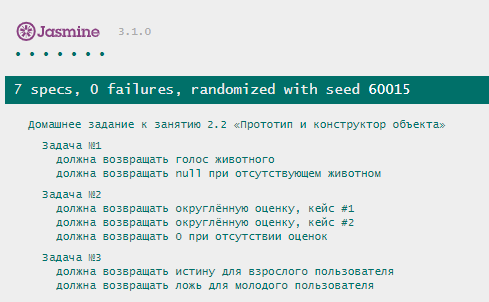
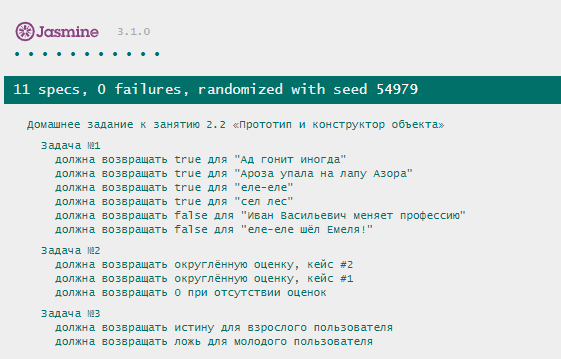
Change opject-prototype task

Changed region(s): [[0.0613, 0.3874, 0.9202, 0.9834], [0.0, 0.2086, 1.0, 0.3576], [0.0307, 0.0596, 0.3067, 0.1788]]

diff --git a/2.2-object-prototype/tests.js b/2.2-object-prototype/tests.js
@@ -1,11 +1,27 @@
 describe('Домашнее задание к занятию 2.2 «Прототип и конструктор объекта»', () => {
   describe('Задача №1', () => {
-    it('должна возвращать null при отсутствующем животном', () => {
-      expect(getAnimalSound()).toBeNull();
+    it('должна возвращать true для "Ароза упала на лапу Азора"', () => {
+      expect("А роза упала на лапу Азора".isPalindrome()).toBeTruthy();
     });
 
-    it('должна возвращать голос животного', () => {
-      expect(getAnimalSound({sound: 'grrrr'})).toEqual('grrrr');
+    it('должна возвращать true для "Ад гонит иногда"', () => {
+      expect("Ад гонит иногда".isPalindrome()).toBeTruthy();
+    });
+
+    it('должна возвращать true для "сел лес"', () => {
+      expect("сел лес".isPalindrome()).toBeTruthy();
+    });
+
+    it('должна возвращать true для "еле-еле"', () => {
+      expect("еле-еле".isPalindrome()).toBeTruthy();
+    });
+
+    it('должна возвращать false для "еле-еле шёл Емеля!"', () => {
+      expect("еле-еле шёл Емеля!".isPalindrome()).toBeFalsy();
+    });
+
+    it('должна возвращать false для "Иван Васильевич меняет профессию"', () => {
+      expect("Иван Васильевич меняет профессию".isPalindrome()).toBeFalsy();
     });
   });
 

diff --git a/2.2-object-prototype/index.html b/2.2-object-prototype/index.html
@@ -11,9 +11,10 @@
 <body>
     <h3>Задача №1</h3>
     <div>
-        <button onClick="initPrintAnimalSound()">Каково звучание тигра?</button>
+        <input type="text" placeholder="Строка для проверки" id="palindromeInput"><br><br>
+        <button onClick="polindromChecker()">Проверить значение на полиндром</button>
         <br><br>
-        <div id="sound">Пока непонятно, нажмите на кнопку выше</div>
+        <div id="checkedValue">Пока непонятно, нажмите на кнопку выше</div>
     </div>
     <hr />    
     <h3>Задача №2</h3>
@@ -53,7 +54,7 @@
         <div id="disclaimer">Пока непонятно, введите дату рождения</div>
     </div>
     <hr />
-    <script src="main.js"></script>
     <script src="task.js"></script>
+    <script src="main.js"></script>
 </body>
 </html>

diff --git a/2.2-object-prototype/main.js b/2.2-object-prototype/main.js
@@ -1,11 +1,6 @@
-function initPrintAnimalSound() {
-    const animal = {
-        sound: 'grrrr',
-    };
-
-    const result = getAnimalSound(animal);
-
-    document.getElementById('sound').innerHTML = result;   
+function polindromChecker() {
+    const result = palindromeInput.value.isPalindrome(palindromeInput.value);
+    checkedValue.innerText = `Строка ${!result && "не " || ""}является полиндромом`;
 }
 
 function initCalculateStatement() {

diff --git a/2.2-object-prototype/task.js b/2.2-object-prototype/task.js
@@ -1,7 +1,4 @@
-function getAnimalSound(animal) {
-    // код для задачи №1 писать здесь
-    // return animalSound;
-}
+//String.prototype.isPalindrome - для задачи №1
 
 function getAverageMark(marks) {
     // код для задачи №2 писать здесь

diff --git a/2.2-object-prototype/README.md b/2.2-object-prototype/README.md
@@ -2,13 +2,16 @@
 
 ## Задача № 1
 
-Помогите создать всемирный каталог всех животных. Программисты, которые работали над ним до этого, уже написали большую часть и создали все объекты, которые описывают животных. Только вот для некоторых из них забыли добавить звуки, которые они издают. Напишите функцию, которая принимает объект с животным и возвращает звук (текстом).
+Нашему знакомому школьнику Васе потребовалось проверять читается ли строка справа налево так же как и слева направо. Но писать функцию для этого ему не интересно. Вася решил расширить сам язык JavaScript и добавить возможность проверки строки на полиндром.
 
 ### Процесс реализации
-1. Создайте функцию принимающую один аргумент `animal`, объект описывающий животного;
-2. Если переменная `animal` равна `undefined`, верните в качестве результата работы функции `null`;
-3. Создайте переменную `sound`, присвоив ей значение поля `sound` объекта `animal`;
-4. Если переменная `animal` не равна `undefined`, верните в качестве результата работы, переменную `sound`.
+1. Используйте прототип класса `String` для добавления новой возможности
+2. В прототип класса `String` добавьте функцию `isPalindrome`, которая будет проверять строку на полиндром
+3. Используйте `this` для обращения к текущей строке на которой применяется функция
+4. Не используйте стрелочную функцию (предпочитая обычную) для того, что бы не потерять контекст
+5. Функция должна возвращать `true` если строка читается одинаково в любую сторону, и `false` если строка читается по-разному.
+6. Реализуйте регистронезависимость функции
+7. Проверьте вашу функцию: `console.log("А роза упала на лапу Азора")//true`
 
 ## Задача № 2
 
